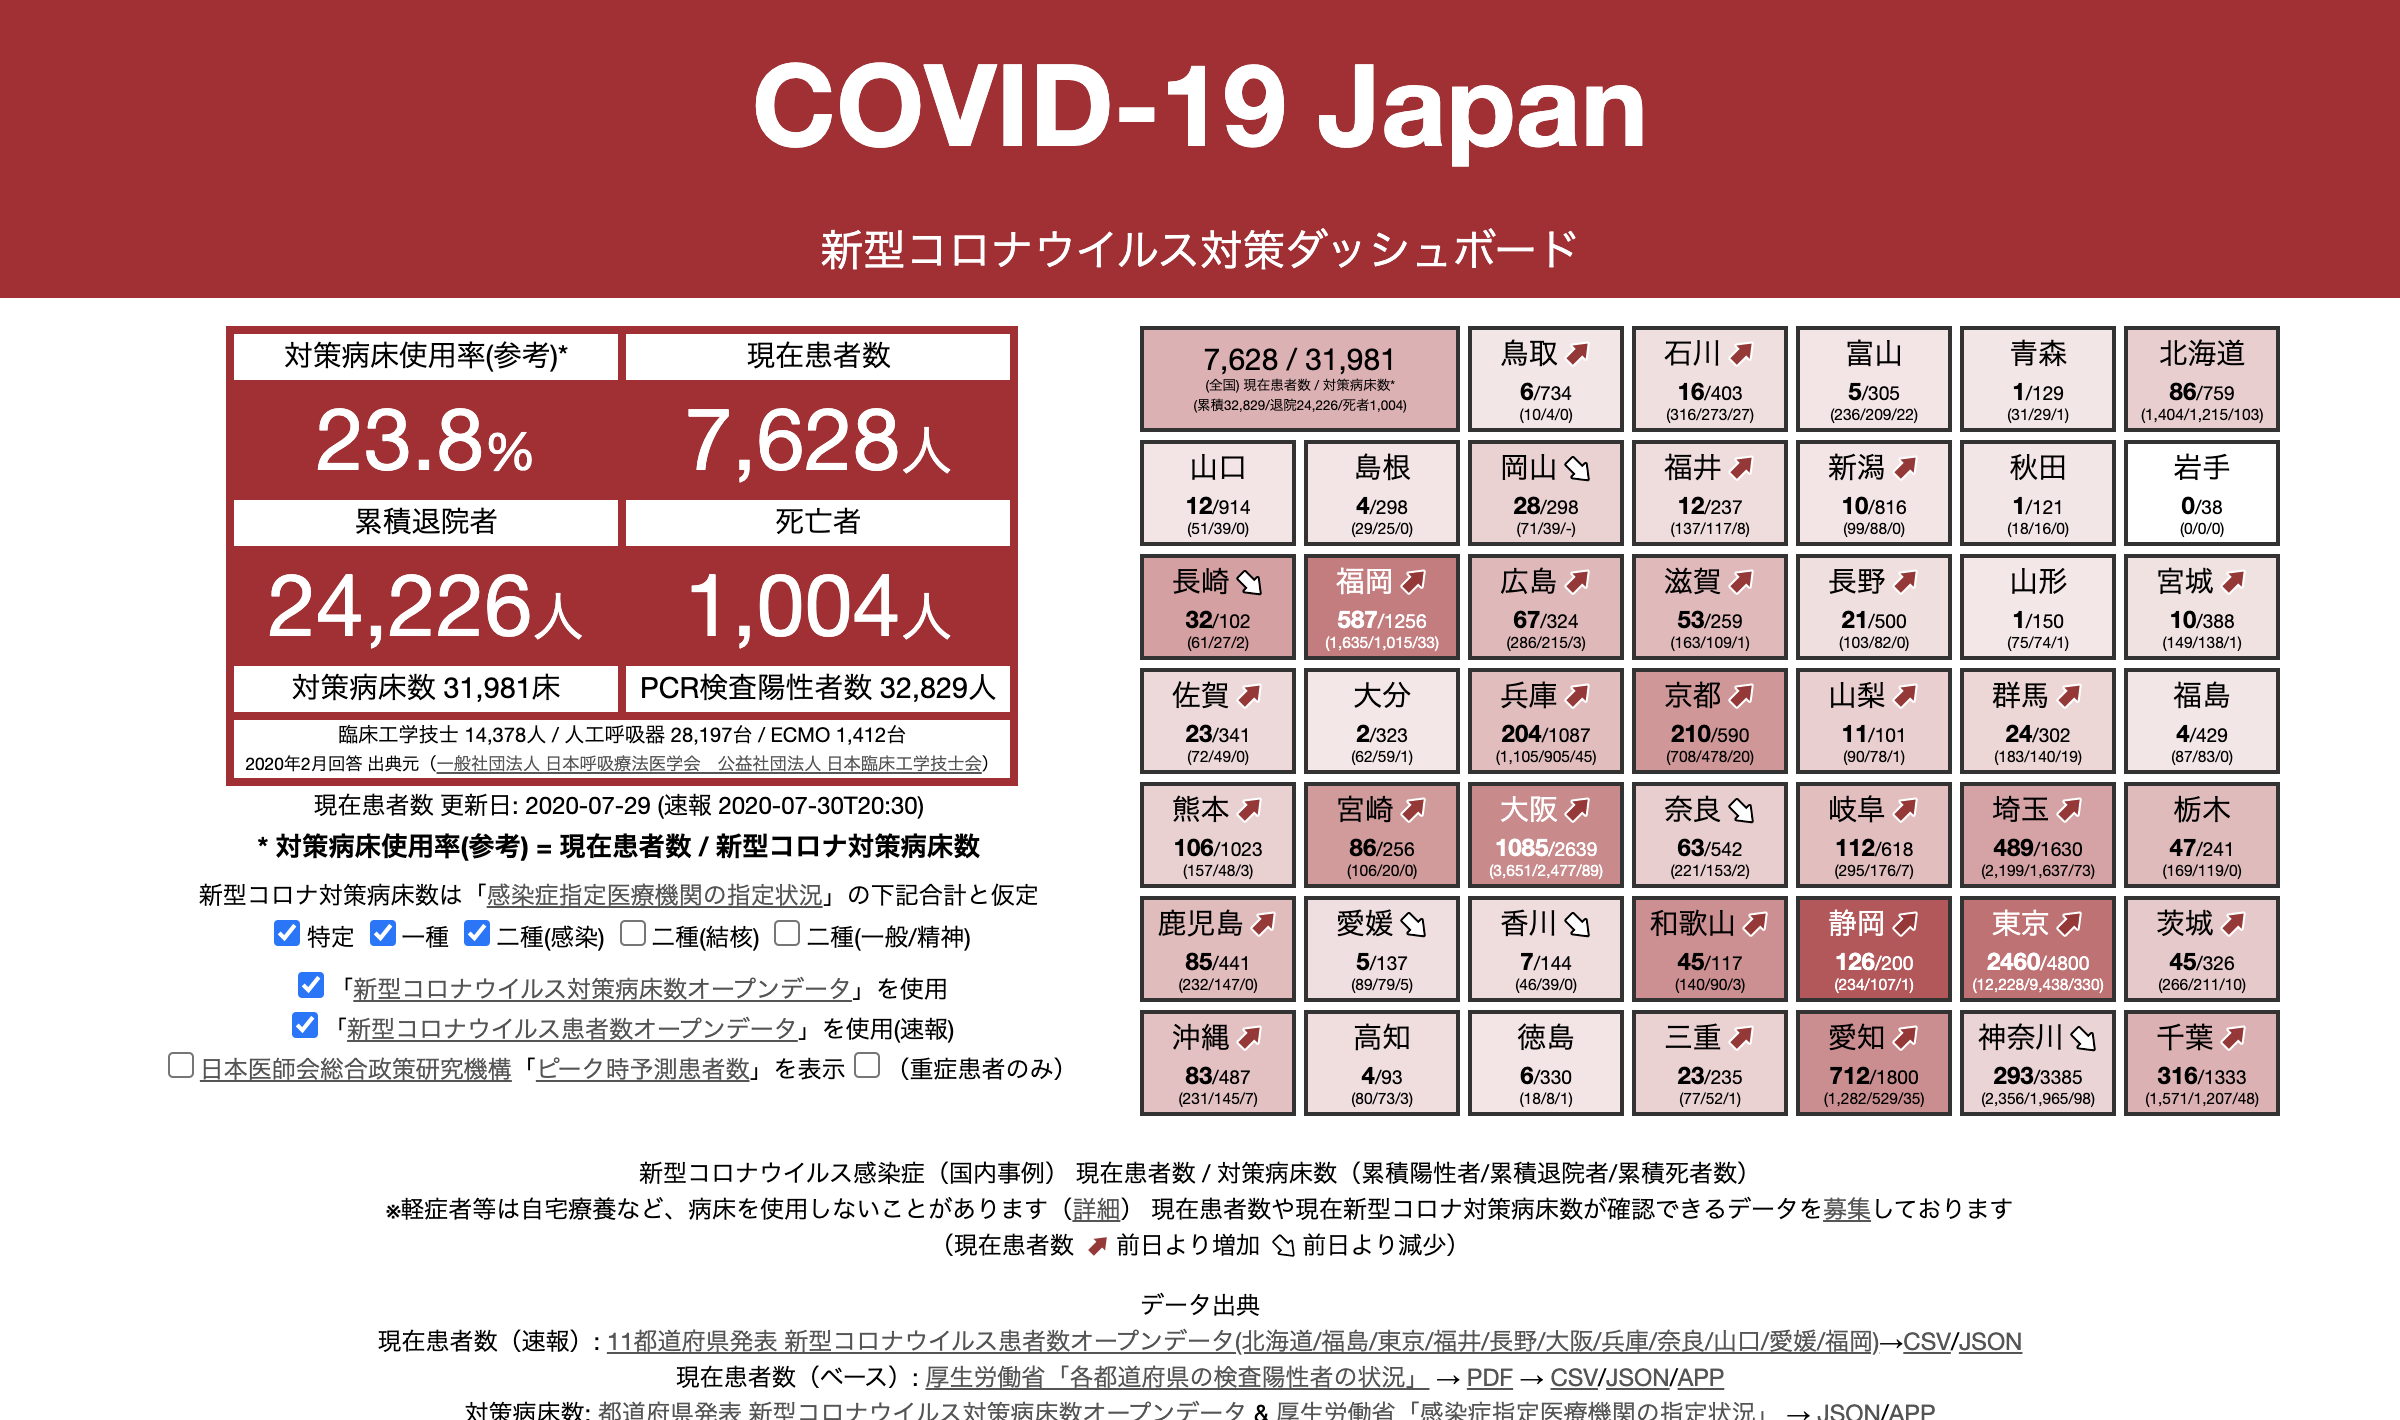
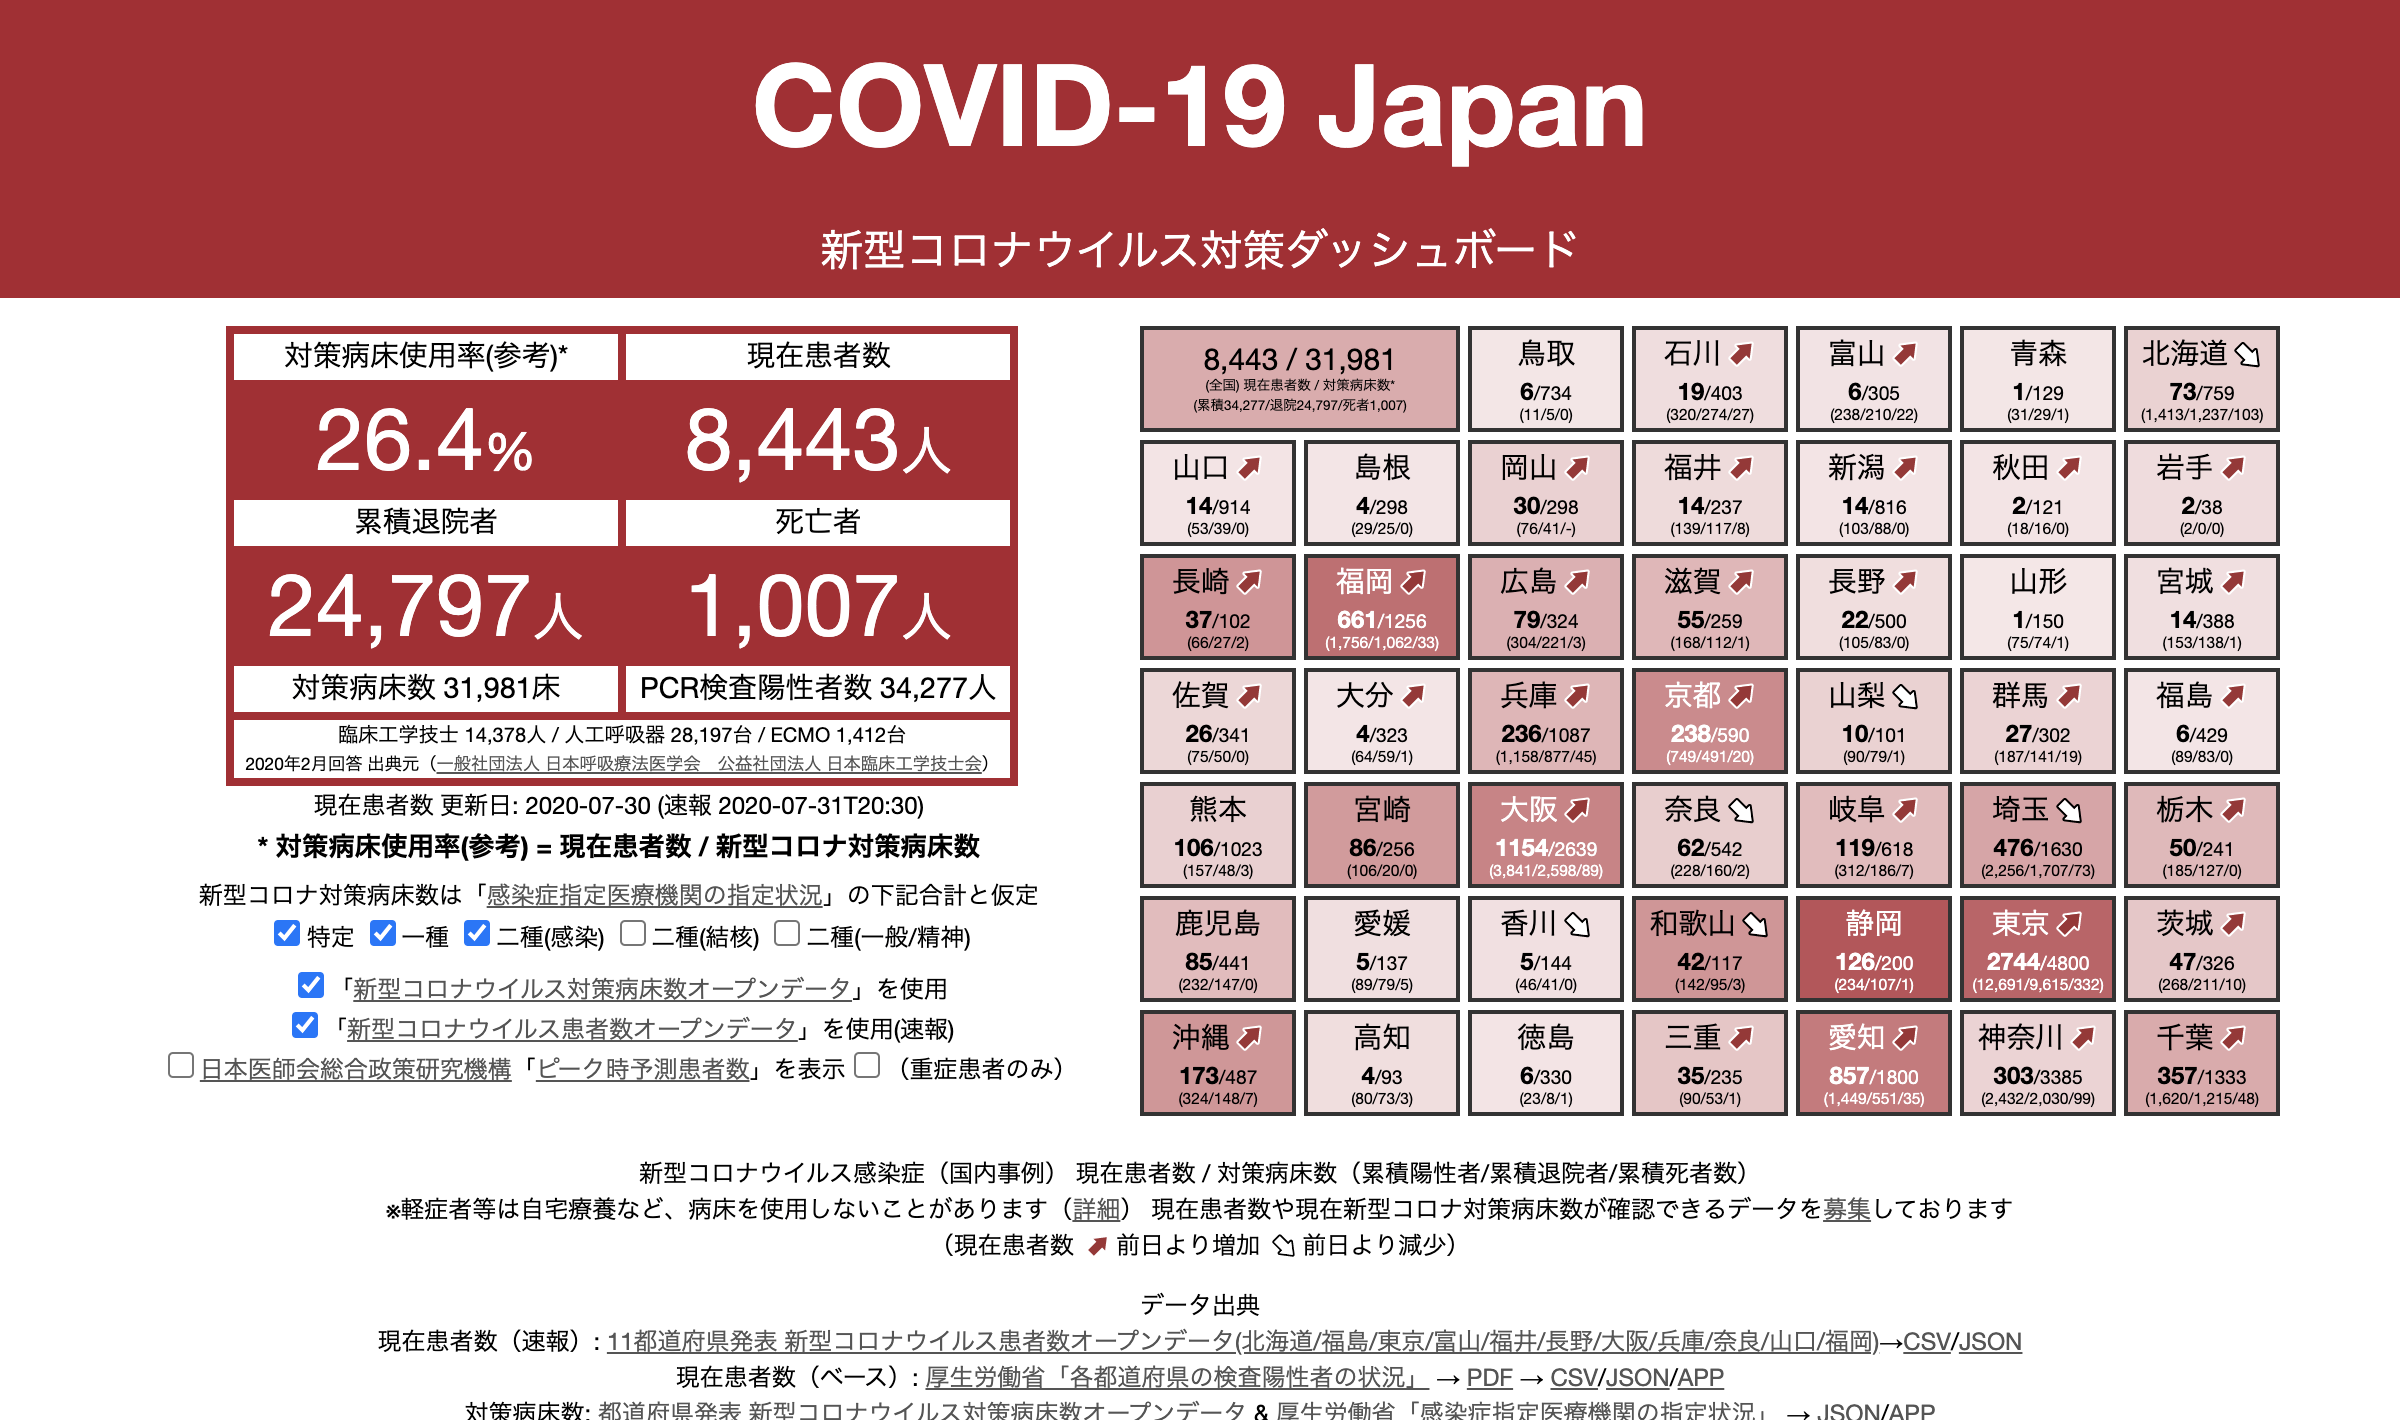
データ更新

diff --git a/index.html b/index.html
@@ -19,8 +19,8 @@ gtag('config', 'UA-162141832-1')
 <link rel="apple-touch-icon" href="covid19japan-leargeicon.png"/>
 <meta name="msapplication-square310x310logo" content="covid19japan-leargeicon.png"/>
 <meta name="twitter:card" content="summary_large_image"/>
-<meta property="og:image"  content="https://www.stopcovid19.jp/ogp/covid19japan_ogp_20200730225621.png"/>
-<meta name="twitter:image" content="https://www.stopcovid19.jp/ogp/covid19japan_ogp_20200730225621.png"/>
+<meta property="og:image"  content="https://www.stopcovid19.jp/ogp/covid19japan_ogp_20200731224340.png"/>
+<meta name="twitter:image" content="https://www.stopcovid19.jp/ogp/covid19japan_ogp_20200731224340.png"/>
 
 <meta name="viewport" content="width=device-width, initial-scale=1.0"/>
 <meta name="format-detection" content="telephone=no"/>
